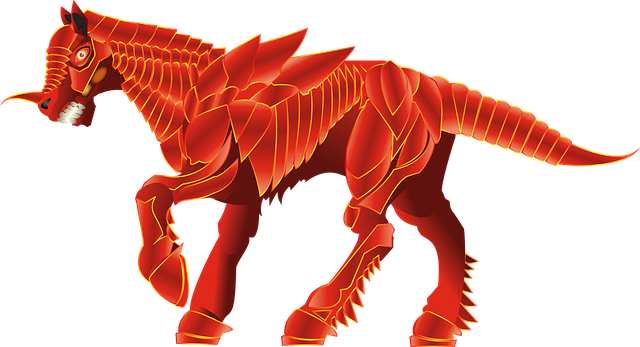
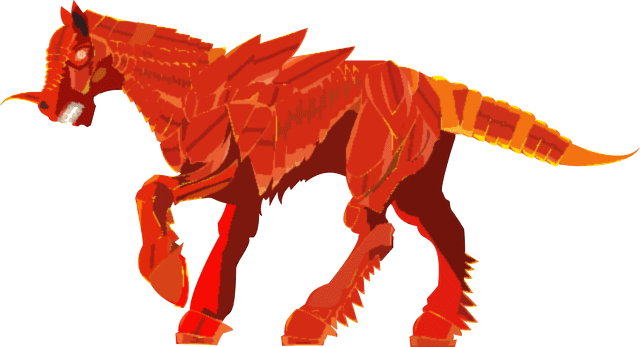
add updated images and minor styling

Changed region(s): [[0.0, 0.0288, 1.0, 1.0]]

diff --git a/src/Encounter/wwwroot/css/StyleSheet.css b/src/Encounter/wwwroot/css/StyleSheet.css
@@ -235,7 +235,6 @@ body {
     max-height:40vh;
     width: auto;
     height: auto;
-    transform: scaleX(-1);
 }
 .char-sprite-box {
     /*height: 100%;*/
@@ -268,7 +267,6 @@ body {
     max-height:40vh;
     width: auto;
     height: auto;
-    transform: scaleX(-1);
 }
 foe-sprite-box {
     /*height: 100%;*/

diff --git a/src/Encounter/Services/EventData.cs b/src/Encounter/Services/EventData.cs
@@ -36,21 +36,21 @@ namespace Encounter.Services
 
             if (scenario.Name == "Forest")
             {
-                events.Add(new Event { Name = "Forest 1", Level = 1, ImageUrl = "/img/events/forest.jpg", Foe = _context.Foes.OrderBy(r => Guid.NewGuid()).Where(f => f.Scenario.Name == scenario.Name && f.Level == 1).Take(1).First(), Scenario = scenario });
-                events.Add(new Event { Name = "Forest 2", Level = 2, ImageUrl = "/img/events/forest.jpg", Foe = _context.Foes.OrderBy(r => Guid.NewGuid()).Where(f => f.Scenario.Name == scenario.Name && f.Level == 2).Take(1).First(), Scenario = scenario });
-                events.Add(new Event { Name = "Forest 3", Level = 3, ImageUrl = "/img/events/forest.jpg", Foe = _context.Foes.OrderBy(r => Guid.NewGuid()).Where(f => f.Scenario.Name == scenario.Name && f.Level == 3).Take(1).First(), Scenario = scenario });
+                events.Add(new Event { Name = "Forest 1", Level = 1, ImageUrl = "/img/events/forest1.jpg", Foe = _context.Foes.OrderBy(r => Guid.NewGuid()).Where(f => f.Scenario.Name == scenario.Name && f.Level == 1).Take(1).First(), Scenario = scenario });
+                events.Add(new Event { Name = "Forest 2", Level = 2, ImageUrl = "/img/events/forest2.jpg", Foe = _context.Foes.OrderBy(r => Guid.NewGuid()).Where(f => f.Scenario.Name == scenario.Name && f.Level == 2).Take(1).First(), Scenario = scenario });
+                events.Add(new Event { Name = "Forest 3", Level = 3, ImageUrl = "/img/events/forest3.jpg", Foe = _context.Foes.OrderBy(r => Guid.NewGuid()).Where(f => f.Scenario.Name == scenario.Name && f.Level == 3).Take(1).First(), Scenario = scenario });
             }
             else if (scenario.Name == "Desert")
             {
-                events.Add(new Event { Name = "Desert 1", Level = 1, ImageUrl = "/img/events/desert.jpg", Foe = _context.Foes.OrderBy(r => Guid.NewGuid()).Where(f => f.Scenario.Name == scenario.Name && f.Level == 1).Take(1).First(), Scenario = scenario });
-                events.Add(new Event { Name = "Desert 2", Level = 2, ImageUrl = "/img/events/desert.jpg", Foe = _context.Foes.OrderBy(r => Guid.NewGuid()).Where(f => f.Scenario.Name == scenario.Name && f.Level == 2).Take(1).First(), Scenario = scenario });
-                events.Add(new Event { Name = "Desert 3", Level = 3, ImageUrl = "/img/events/desert.jpg", Foe = _context.Foes.OrderBy(r => Guid.NewGuid()).Where(f => f.Scenario.Name == scenario.Name && f.Level == 3).Take(1).First(), Scenario = scenario });
+                events.Add(new Event { Name = "Desert 1", Level = 1, ImageUrl = "/img/events/desert1.jpg", Foe = _context.Foes.OrderBy(r => Guid.NewGuid()).Where(f => f.Scenario.Name == scenario.Name && f.Level == 1).Take(1).First(), Scenario = scenario });
+                events.Add(new Event { Name = "Desert 2", Level = 2, ImageUrl = "/img/events/desert2.jpg", Foe = _context.Foes.OrderBy(r => Guid.NewGuid()).Where(f => f.Scenario.Name == scenario.Name && f.Level == 2).Take(1).First(), Scenario = scenario });
+                events.Add(new Event { Name = "Desert 3", Level = 3, ImageUrl = "/img/events/desert3.jpg", Foe = _context.Foes.OrderBy(r => Guid.NewGuid()).Where(f => f.Scenario.Name == scenario.Name && f.Level == 3).Take(1).First(), Scenario = scenario });
             }
             else if (scenario.Name == "Lair")
             {
-                events.Add(new Event { Name = "Lair 1", Level = 1, ImageUrl = "/img/events/lair.jpg", Foe = _context.Foes.OrderBy(r => Guid.NewGuid()).Where(f => f.Scenario.Name == scenario.Name && f.Level == 1).Take(1).First(), Scenario = scenario });
-                events.Add(new Event { Name = "Lair 2", Level = 2, ImageUrl = "/img/events/lair.jpg", Foe = _context.Foes.OrderBy(r => Guid.NewGuid()).Where(f => f.Scenario.Name == scenario.Name && f.Level == 2).Take(1).First(), Scenario = scenario });
-                events.Add(new Event { Name = "Lair 3", Level = 3, ImageUrl = "/img/events/lair.jpg", Foe = _context.Foes.OrderBy(r => Guid.NewGuid()).Where(f => f.Scenario.Name == scenario.Name && f.Level == 3).Take(1).First(), Scenario = scenario });
+                events.Add(new Event { Name = "Lair 1", Level = 1, ImageUrl = "/img/events/lair1.jpg", Foe = _context.Foes.OrderBy(r => Guid.NewGuid()).Where(f => f.Scenario.Name == scenario.Name && f.Level == 1).Take(1).First(), Scenario = scenario });
+                events.Add(new Event { Name = "Lair 2", Level = 2, ImageUrl = "/img/events/lair2.jpg", Foe = _context.Foes.OrderBy(r => Guid.NewGuid()).Where(f => f.Scenario.Name == scenario.Name && f.Level == 2).Take(1).First(), Scenario = scenario });
+                events.Add(new Event { Name = "Lair 3", Level = 3, ImageUrl = "/img/events/lair3.jpg", Foe = _context.Foes.OrderBy(r => Guid.NewGuid()).Where(f => f.Scenario.Name == scenario.Name && f.Level == 3).Take(1).First(), Scenario = scenario });
             }
             return events;
         }

diff --git a/src/Encounter/Services/AbilityData.cs b/src/Encounter/Services/AbilityData.cs
@@ -41,8 +41,8 @@ namespace Encounter.Services
                 _context.Add(new Ability { Name = "Stab", FoeHarm = 4, ImageUrl = "/img/actions/stab.png", CoolDownMiliSecs = 2300 });
                 _context.Add(new Ability { Name = "Snide Remark", FoeHarm = 1, ImageUrl = "/img/actions/snide-remark.png", CoolDownMiliSecs = 500 });
 
-                _context.Add(new Ability { Name = "Inspiring Speech", CharHeal = 2, ImageUrl = "/img/actions/inspiring-speech.png", CoolDownMiliSecs = 2000 });
-                _context.Add(new Ability { Name = "Belittling Glare", FoeHarm = 2, ImageUrl = "/img/actions/belittling-glare.png", CoolDownMiliSecs = 1500 });
+                _context.Add(new Ability { Name = "Mysterious Chant", CharHeal = 2, CharHarm = 1, ImageUrl = "/img/actions/inspiring-speech.png", CoolDownMiliSecs = 2000 });
+                _context.Add(new Ability { Name = "Intense Glare", FoeHarm = 2, ImageUrl = "/img/actions/belittling-glare.png", CoolDownMiliSecs = 1500 });
 
                 _context.Add(new Ability { Name = "Heal 2", CharHeal = 4, ImageUrl = "/img/actions/heal.png", CoolDownMiliSecs = 3000 });
                 _context.Add(new Ability { Name = "Claw Attack", FoeHarm = 3, ImageUrl = "/img/actions/claw-attack.png", CoolDownMiliSecs = 2000 });

diff --git a/src/Encounter/Services/CharacterData.cs b/src/Encounter/Services/CharacterData.cs
@@ -64,12 +64,12 @@ namespace Encounter.Services
                 });
                 _context.Add(new Character
                 {
-                    Name = "Pat",
-                    SpriteUrl = "/img/char/captain.png",
-                    Class = "Captain",
+                    Name = "Veda",
+                    SpriteUrl = "/img/char/demon-hunter.png",
+                    Class = "Demon Hunter",
                     Health = 18,
-                    Ability1 = _context.Abilities.FirstOrDefault(a => a.Name == "Belittling Glare"),
-                    Ability2 = _context.Abilities.FirstOrDefault(a => a.Name == "Inspiring Speech"),
+                    Ability1 = _context.Abilities.FirstOrDefault(a => a.Name == "Intense Glare"),
+                    Ability2 = _context.Abilities.FirstOrDefault(a => a.Name == "Mysterious Chant"),
                     //Ability3 = _context.Abilities.FirstOrDefault(a => a.Name == "Hammer Blow"),
                 });
 

diff --git a/src/Encounter/Services/FoeData.cs b/src/Encounter/Services/FoeData.cs
@@ -75,7 +75,7 @@ namespace Encounter.Services
                 });
                 _context.Add(new Foe { Health = 20, Name = "Mysterious Creatures", SpriteUrl = "/img/foe/flying-monster.png", Level = 2,
                     Scenario = _context.Scenarios.FirstOrDefault(a => a.Name == "Desert"),
-                    Ability1 = _context.Abilities.FirstOrDefault(a => a.Name == "Bite"),
+                    Ability1 = _context.Abilities.FirstOrDefault(a => a.Name == "Mysterious Chant"),
                     Ability2 = _context.Abilities.FirstOrDefault(a => a.Name == "Shove"),
                 });
                 _context.Add(new Foe { Health = 24, Name = "Ogre", SpriteUrl = "/img/foe/patchwork-ogre.png", Level = 2,
